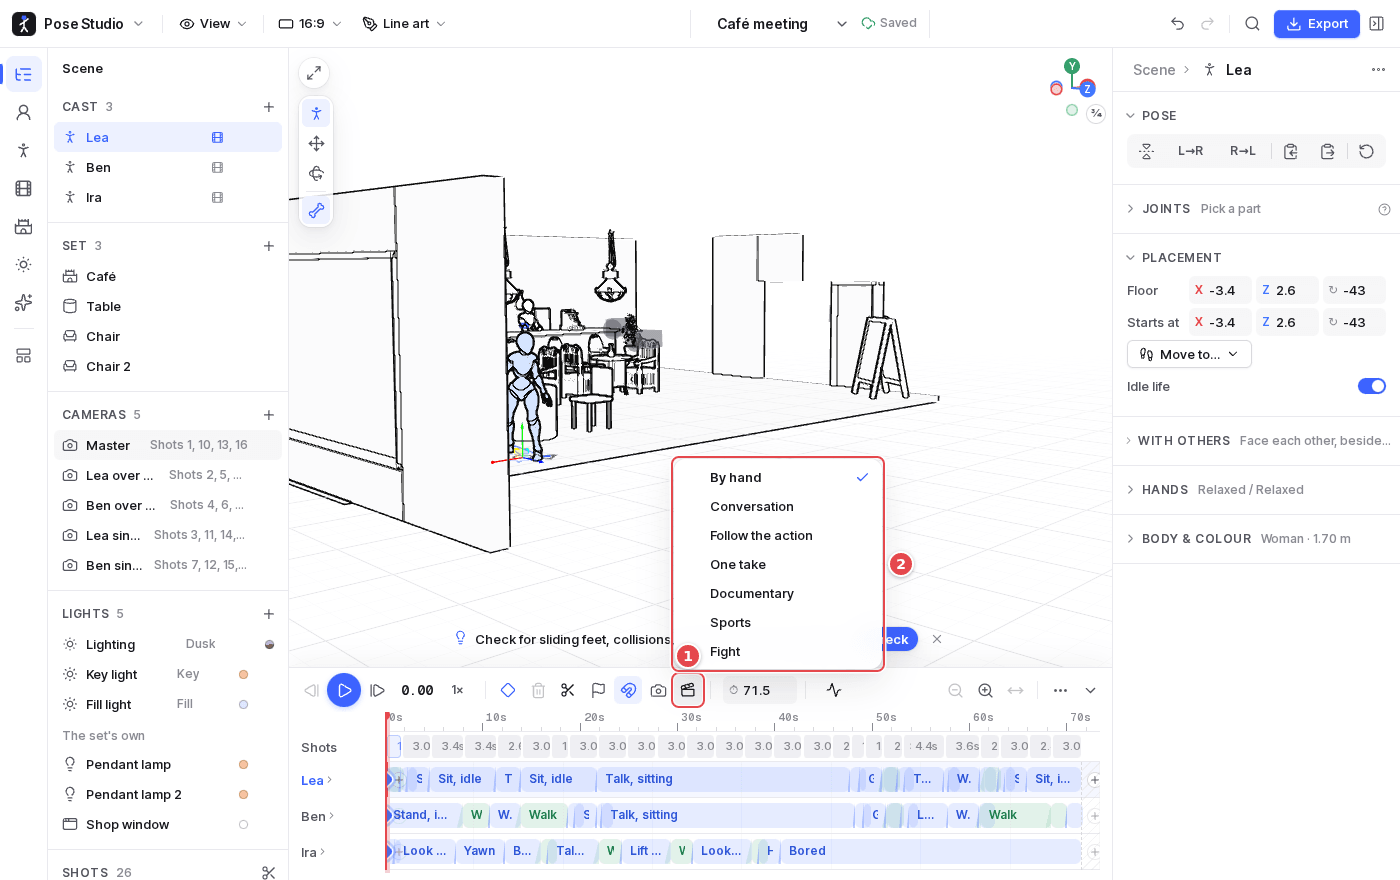
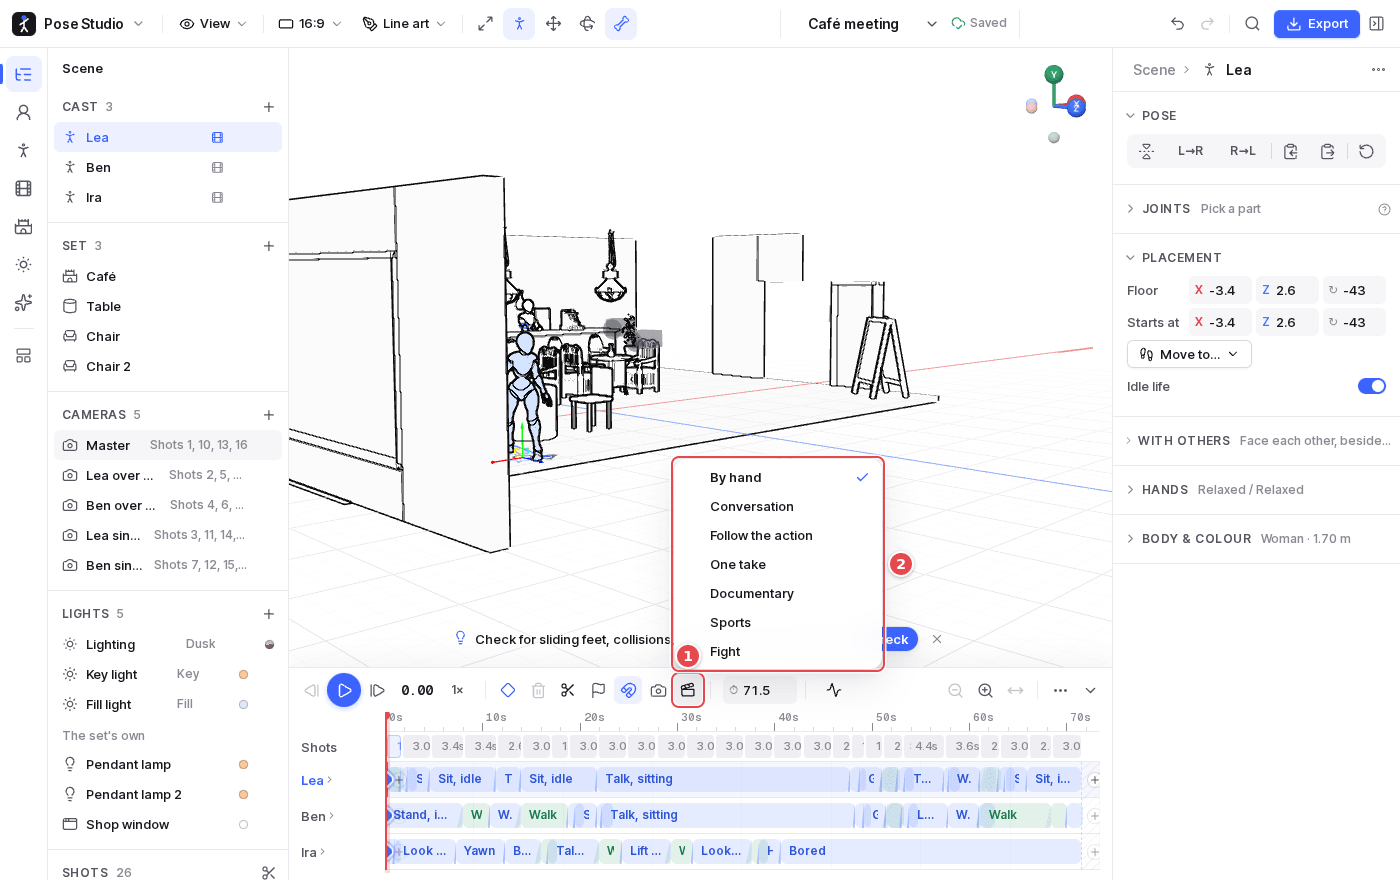
Guide: screenshots taken again (the canvas's tools in the top bar, the 3D view gizmo, the painted Watercolour); texts for the tools, the view gizmo and Watercolour

diff --git a/scripts/doc-shots.ts b/scripts/doc-shots.ts
@@ -24,6 +24,13 @@ const joint = (page: Page, part: string, r = 22, figure = 0) => async (): Promis
   return { x: p!.x - r, y: p!.y - r, width: 2 * r, height: 2 * r };
 };
 
+/** The box round two elements and what is between them (a run of buttons). */
+const span = (first: Locator, last: Locator) => async (): Promise<Box> => {
+  const [a, b] = [(await first.boundingBox())!, (await last.boundingBox())!];
+  const [x, y] = [Math.min(a.x, b.x), Math.min(a.y, b.y)];
+  return { x, y, width: Math.max(a.x + a.width, b.x + b.width) - x, height: Math.max(a.y + a.height, b.y + b.height) - y };
+};
+
 /** The box of the first element matching `selector` with `text` that is in view (a zoomed timeline has others past its ends). */
 const shown = (page: Page, selector: string, text: string) => async (): Promise<Box> => {
   const box = await page.evaluate(([selector, text]) => {
@@ -112,12 +119,12 @@ const SHOTS: Shot[] = [
     },
     marks: (page) => [
       { n: 1, at: page.getByRole('button', { name: 'Main menu' }), side: 'bottom' },
-      { n: 2, at: page.locator('.topbar .toolbar').first(), side: 'bottom' },
+      { n: 2, at: span(page.getByRole('button', { name: 'View', exact: true }), page.getByRole('button', { name: 'Render style' })), side: 'bottom' },
       { n: 3, at: page.locator('.tb-center'), side: 'bottom' },
       { n: 4, at: page.locator('.tb-right'), side: 'bottom' },
       { n: 5, at: page.locator('.rail'), side: 'right' },
       { n: 6, at: page.locator('.side-panel'), side: 'inside-bottom', ring: false },
-      { n: 7, at: page.locator('.canvas-tools'), side: 'right' },
+      { n: 7, at: page.locator('.topbar .canvas-tools'), side: 'bottom' },
       { n: 8, at: page.locator('.view-ball'), side: 'left' },
       { n: 9, at: inspector(page), side: 'inside-bottom', ring: false },
       { n: 10, at: timeline(page), side: 'inside', ring: false },
@@ -139,7 +146,7 @@ const SHOTS: Shot[] = [
       await idle(page, 1200);
     },
     marks: (page) => [
-      { n: 1, at: page.locator('.canvas-tools'), side: 'right' },
+      { n: 1, at: page.locator('.canvas-tools'), side: 'bottom' },
       { n: 2, at: joint(page, 'rightHand', 26), side: 'right' },
       { n: 3, at: joint(page, 'leftLowerArm', 60), side: 'right', ring: false },
       { n: 4, at: inspector(page).locator('.bodymap').first(), side: 'left' },
@@ -412,9 +419,8 @@ const SHOTS: Shot[] = [
     marks: (page) => [
       { n: 1, at: page.getByRole('button', { name: 'Side panel' }), side: 'bottom' },
       { n: 2, at: page.getByRole('button', { name: 'Inspector' }), side: 'bottom' },
-      { n: 3, at: page.locator('.canvas-tools'), side: 'right' },
-      { n: 4, at: page.locator('.stage-hint .bar-hint').first(), side: 'top' },
-      { n: 5, at: page.locator('.toolbar').first(), side: 'right' },
+      { n: 3, at: page.locator('.stage-hint .bar-hint').first(), side: 'top' },
+      { n: 4, at: page.locator('.toolbar').first(), side: 'right' },
     ],
   },
 ];

diff --git a/docs/guide/02-posing.md b/docs/guide/02-posing.md
@@ -2,10 +2,10 @@
 
 ![A figure being posed: a hand reached up, a forearm selected](images/posing.png)
 
-1. **The tools** say what a drag on a figure does:
+1. **The tools**, icon buttons in the top bar, say what a drag on a figure does; the one in use is lit, and resting the pointer on one gives its name and key:
    - **Pose** (`Q`, the default): a hand or foot **reaches**, the arm or leg following it (IK). Any other part **swings** from its joint. The hips **sink or shift** with the feet staying planted, to drop into a squat or shift the weight.
    - **Move** (`W`): any part places **the whole figure** on the floor. Shift-drag turns it. In an animated scene this moves everything the figure does.
-   - **Rotate** (`E`): any part **turns at its joint**, hands and feet too.
+   - **Rotate** (`E`): any part **turns at its joint**, hands and feet too. It differs from Pose on the hands and feet: with Pose, a hand dragged **moves** (the arm bends to follow it); with Rotate, it **turns** at the wrist and the arm stays as it is.
    - **Body follows** (the last button): when a hand reaches beyond the arm, the shoulder and chest come along.
 2. **A hand reached up** with the Pose tool: dragged from where it hung, the arm followed.
 3. **The selected part** (here the left forearm) shows its rotate gizmo: its rings turn it about its own axes, and the ring facing the view turns it freely. Dragging the part itself also turns it. Hold `X`, `Y` or `Z` while dragging to turn only that way. `Ctrl` snaps to 5° steps; `Shift`-drag twists it.

diff --git a/docs/guide/03-figures-and-props.md b/docs/guide/03-figures-and-props.md
@@ -29,7 +29,7 @@ Dragging a hand onto someone else does the same as Reach: it holds on at the nea
 
 ## Props
 
-- **Drag** a prop to move it on the floor, turn it by its floor ring, raise it with its gizmo, and `R` switches to scaling. Its inspector has exact position, rotation and size (drag a field's letter to scrub).
+- **Drag** a prop to move it on the floor, turn it by its floor ring, and raise it with its gizmo. With a prop selected, the tools in the top bar are **Move** and **Scale** (`R`), the gizmo's two modes. Its inspector has exact position, rotation and size (drag a field's letter to scrub).
 - **Held props**: a small prop can be put in a hand (**Held by** in its inspector, or its menu). It follows the hand through poses and animation, and dragging it moves the hand. **Let go** sets it down.
 - **Physics** (balls, boxes and the like): how much it bounces and grips when thrown, passed, shot or dropped. A reset button brings back the default.
 - **Several at once**: Shift-click figures and props to pick them together, then drag one to move them all. Their panel duplicates, hides or deletes them together.

diff --git a/docs/guide/08-lighting-and-styles.md b/docs/guide/08-lighting-and-styles.md
@@ -33,9 +33,9 @@ The project's **Render style** (top bar, or `L` to cycle) is how the canvas, the
 - **Line art**: clean ink outlines, lines where parts meet, like a drawing reference sheet.
 - **Pencil**: graphite lines with a hand-drawn wobble and cross-hatched shading.
 - **Ink wash**: dry-brush lines and washes of ink on rice paper.
-- **Watercolour**: soft washes in each character's and set's own colours, under a washed sky.
+- **Watercolour**: painted: soft washes in each character's and set's own colours, darker where they dried at their edges, the paper's grain through them and now and then left bare, under a light pencil line and a washed sky.
 - **Anime**: toon shading with outlines, characters in their own colours and textures.
-- **Pixel**: big square pixels in a few flat colours.
+- **Pixel**: small square pixels in a few flat colours.
 - **3D**: a 3D render in the scene's lights and shadows, with textures and a real sky.
 - **Clay**: soft studio light with cast shadows, for value studies.
 - **Minimal**: flat shapes with a hairline outline.

diff --git a/docs/guide/10-more.md b/docs/guide/10-more.md
@@ -58,9 +58,8 @@ During a session, the keyboard pauses and skips.
 
 1. **The side panel** opens as a drawer.
 2. **The inspector** opens as a drawer too.
-3. **The canvas tools**, as on a wide screen.
-4. **The hint**: the next step and its buttons, a spot to pick, warnings. A Library section opened from it opens the side drawer.
-5. **View, Frame and Render style** float at the canvas's foot.
+3. **The hint**: the next step and its buttons, a spot to pick, warnings. A Library section opened from it opens the side drawer.
+4. **The floating bar** at the canvas's foot: View, Frame and Render style, then the canvas's tools.
 
 Drag with a finger as with the mouse. A long press opens the menu of what is under it.
 
